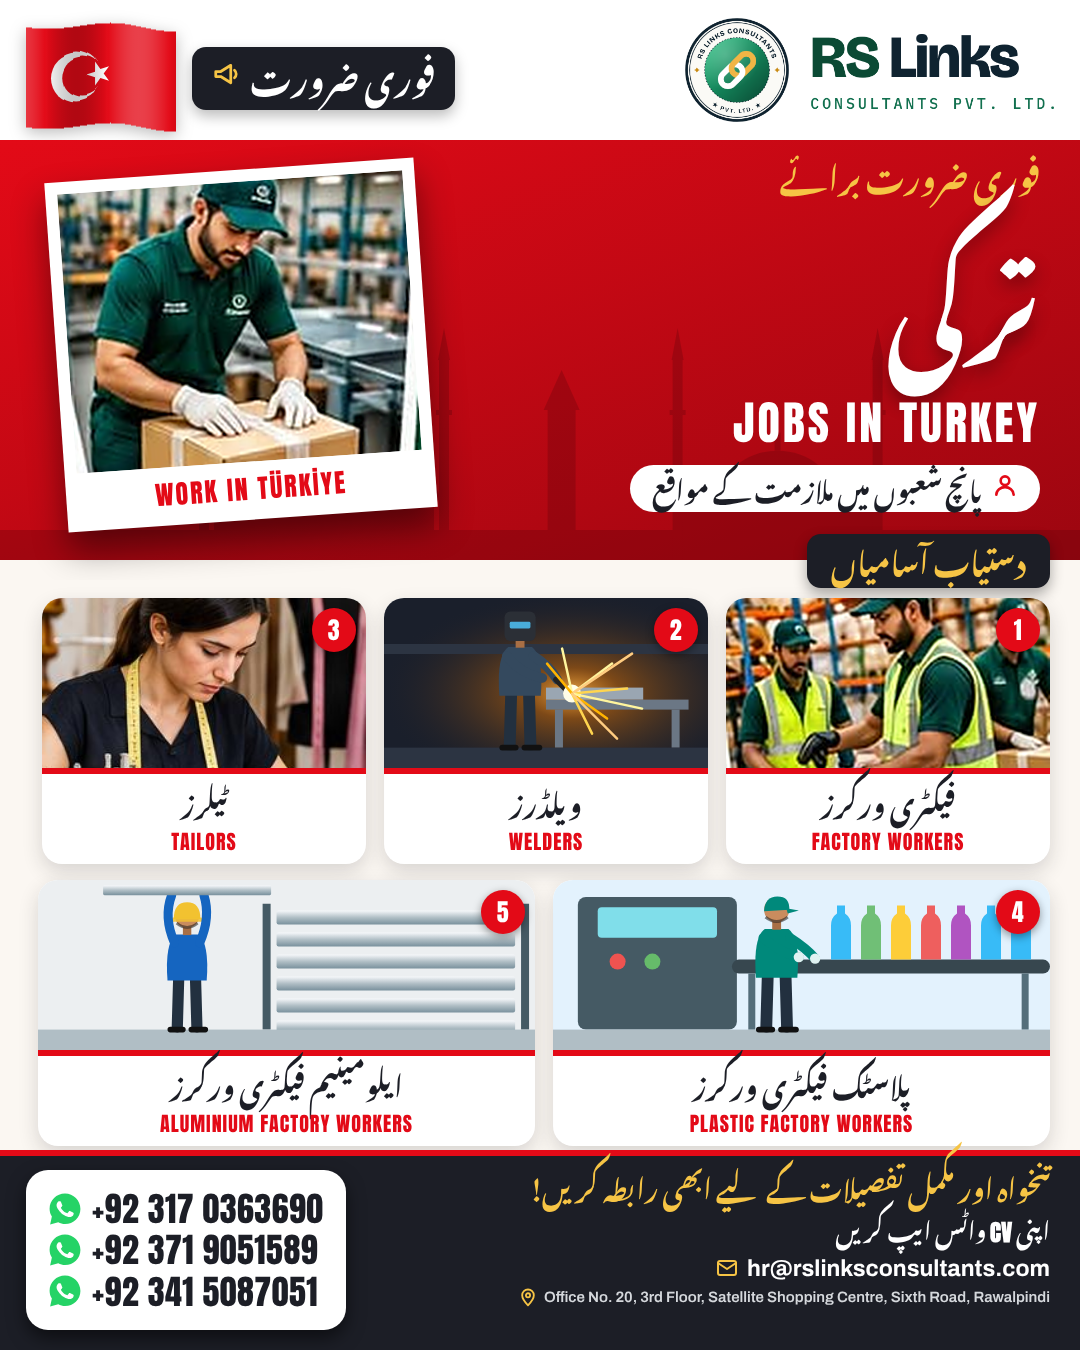
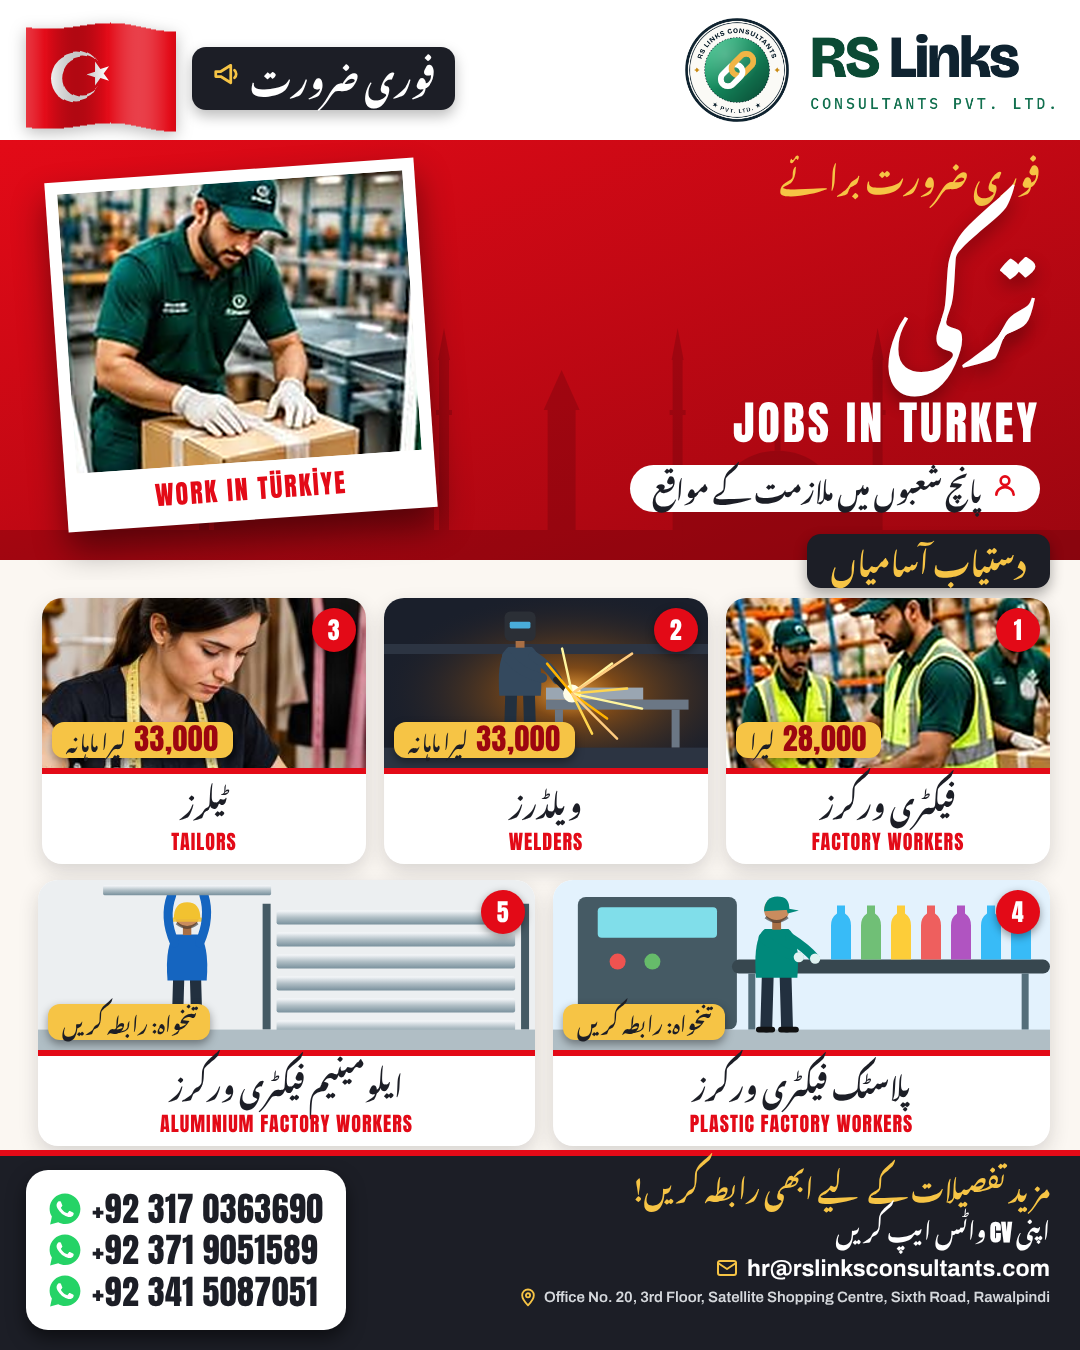
Turkey 5-positions ad: add salaries from user's reference ads
Claude-Session: https://claude.ai/code/session_01YJ5ofgU8QCiWTsYR9pvXG4

diff --git a/src/turkey_multi.py b/src/turkey_multi.py
@@ -1,5 +1,7 @@
 """Turkey — 5 positions, Urdu (2026-10-19). Facts: demands/2026-10-19-turkey-multi/facts.md (user gave positions only:
-Factory Workers, Welders, Tailors, Plastic Factory Worker, Aluminum Factory Worker — no salary/posts/benefits, so none shown).
+Factory Workers, Welders, Tailors, Plastic Factory Worker, Aluminum Factory Worker). Salaries taken from the two
+reference ads the user sent ("take info from here"): factory worker 28000 Lira, welder & tailor 33,000 Lira monthly;
+plastic / aluminium have no figure in the references -> "salary: contact us".
 Design: "Istanbul skyline + photo grid" — white header, Turkish-red hero with Istanbul mosque/minaret skyline, tilted
 polaroid hero photo, 3+2 grid of large picture cards, charcoal CTA.
 Photos: real RS Links photos (factory) and the user's own tailor photo; welder / plastic / aluminium cards are
@@ -90,17 +92,20 @@ def istanbul(w, h, fill):
 
 
 def build():
-    jobs = [("فیکٹری ورکرز", "FACTORY WORKERS", photo("rslinks_team_scan_x3", "center 30%")),
-            ("ویلڈرز", "WELDERS", photo("tr_welder") or art(welder_svg, 324, 170)),
-            ("ٹیلرز", "TAILORS", photo("by_tailor", "center 35%")),
-            ("پلاسٹک فیکٹری ورکرز", "PLASTIC FACTORY WORKERS", photo("tr_plastic") or art(plastic_svg, 497, 170)),
-            ("ایلومینیم فیکٹری ورکرز", "ALUMINIUM FACTORY WORKERS", photo("tr_aluminium") or art(aluminium_svg, 497, 170))]
+    N = lambda v: f"<span class='num' style='font-size:30px;color:{RED2};line-height:1'>{v}</span>"
+    lira = lambda v, monthly=False: f"{N(v)} {T('لیرا ماہانہ' if monthly else 'لیرا', 20, INK, 'font-weight:700;display:inline-block', 1.4)}"
+    jobs = [("فیکٹری ورکرز", "FACTORY WORKERS", photo("rslinks_team_scan_x3", "center 30%"), lira("28,000")),
+            ("ویلڈرز", "WELDERS", photo("tr_welder") or art(welder_svg, 324, 170), lira("33,000", True)),
+            ("ٹیلرز", "TAILORS", photo("by_tailor", "center 35%"), lira("33,000", True)),
+            ("پلاسٹک فیکٹری ورکرز", "PLASTIC FACTORY WORKERS", photo("tr_plastic") or art(plastic_svg, 497, 170), T("تنخواہ: رابطہ کریں", 20, INK, "font-weight:700", 1.5)),
+            ("ایلومینیم فیکٹری ورکرز", "ALUMINIUM FACTORY WORKERS", photo("tr_aluminium") or art(aluminium_svg, 497, 170), T("تنخواہ: رابطہ کریں", 20, INK, "font-weight:700", 1.5))]
 
     def card(i, j, x, y, w):
-        ur, en, pic = j
+        ur, en, pic, sal = j
         return (f"<div class='abs' style='top:{y}px;left:{x}px;width:{w}px;height:266px;background:#fff;border-radius:20px;overflow:hidden;box-shadow:0 8px 20px rgba(28,30,38,.16)'>"
                 f"<div style='height:170px;overflow:hidden;position:relative'>{pic}"
-                f"<span class='num' style='position:absolute;top:10px;right:10px;width:44px;height:44px;border-radius:50%;background:{RED};color:#fff;font-size:24px;display:flex;align-items:center;justify-content:center;box-shadow:0 3px 8px #0006'>{i + 1}</span></div>"
+                f"<span class='num' style='position:absolute;top:10px;right:10px;width:44px;height:44px;border-radius:50%;background:{RED};color:#fff;font-size:24px;display:flex;align-items:center;justify-content:center;box-shadow:0 3px 8px #0006'>{i + 1}</span>"
+                f"<div style='position:absolute;bottom:10px;left:10px;background:{GOLD};border-radius:12px;padding:2px 14px 4px;display:flex;align-items:center;gap:8px;box-shadow:0 4px 10px #0006'>{sal}</div></div>"
                 f"<div style='height:96px;border-top:6px solid {RED};display:flex;flex-direction:column;align-items:center;justify-content:center'>"
                 f"{T(ur, 28, INK, 'font-weight:700;margin-top:-6px', 1.5)}<div style='font-family:Anton;font-size:20px;color:{RED};letter-spacing:1px;line-height:1.1;margin-top:10px'>{en}</div></div></div>")
 
@@ -134,7 +139,7 @@ def build():
 <div class='abs' style='top:1150px;left:0;width:1080px;height:200px;background:{INK};border-top:6px solid {RED}'></div>
 <div class='abs' style='top:1170px;left:26px;height:160px;background:#fff;border-radius:22px;display:flex;align-items:center;padding:0 22px;direction:ltr;box-shadow:0 8px 18px #0008'><div style='display:flex;flex-direction:column;gap:2px'>{nums}</div></div>
 <div class='abs' style='top:1162px;right:30px;width:560px;text-align:right'>
- {T('تنخواہ اور مکمل تفصیلات کے لیے ابھی رابطہ کریں!', 27, GOLD, 'font-weight:700', 1.7)}
+ {T('مزید تفصیلات کے لیے ابھی رابطہ کریں!', 27, GOLD, 'font-weight:700', 1.7)}
  {T("اپنی <span class='num'>CV</span> واٹس ایپ کریں", 23, '#fff', 'font-weight:700', 1.7)}
  <div style='display:flex;align-items:center;justify-content:flex-end;gap:8px;direction:ltr;margin-top:4px'>{icon('mail', 24, GOLD, 2)}<span style='font-family:Archivo;font-size:23px;font-weight:700;color:#fff'>{EMAIL}</span></div>
  <div style='display:flex;align-items:center;justify-content:flex-end;gap:6px;direction:ltr;margin-top:6px'>{icon('pin', 20, GOLD, 2.2)}<span style='font-family:Archivo;font-size:15px;font-weight:600;color:#D5D8DC'>{ADDRESS}</span></div></div>

diff --git a/demands/2026-10-19-turkey-multi/facts.md b/demands/2026-10-19-turkey-multi/facts.md
@@ -4,3 +4,10 @@ Not given (so NOT shown): salary, posts, age, duty hours, accommodation/food/tra
 Ad says "contact for salary and full details".
 Photos: rslinks_worker_pack_x3 / rslinks_team_scan_x3 (RS Links), by_tailor (user's own Belarus draft);
 welder / plastic / aluminium = drawn placeholders until real photos supplied.
+
+## Update (same day): user sent two Phoenix HR reference ads — "take info from here"
+- Factory Worker: 28000 Lira (ref-factory.jpg; no "monthly" stated)
+- Tailor 33,000 / Welder 33,000 Lira monthly (ref-trades.jpg)
+- Plastic / Aluminium factory: no salary in references -> "salary: contact us"
+- Not used: CNC operator 33,000 & HTV driver 35,000 (not in user's position list); interview/video-selection dates; "limited seats";
+  their photos (other agency).
